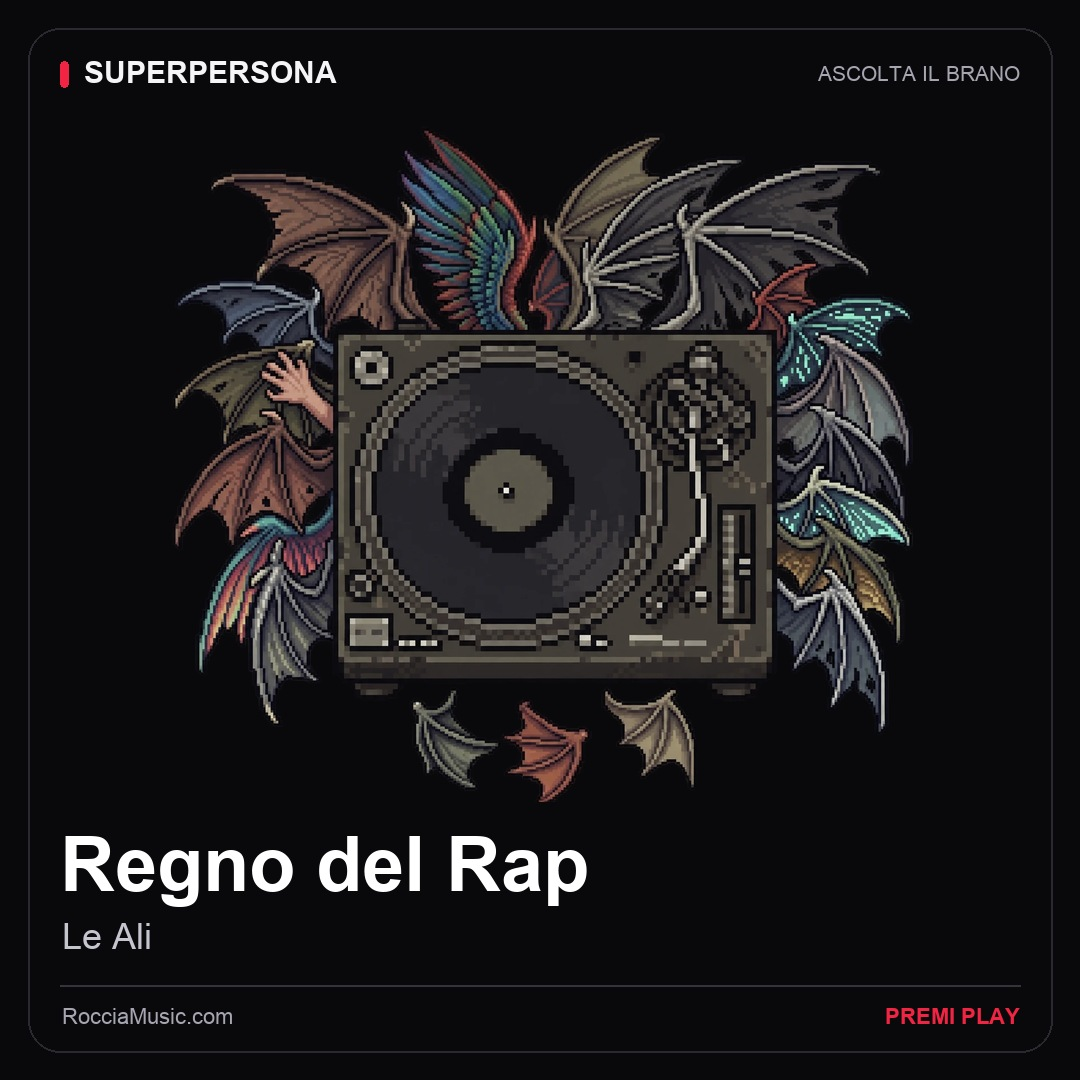
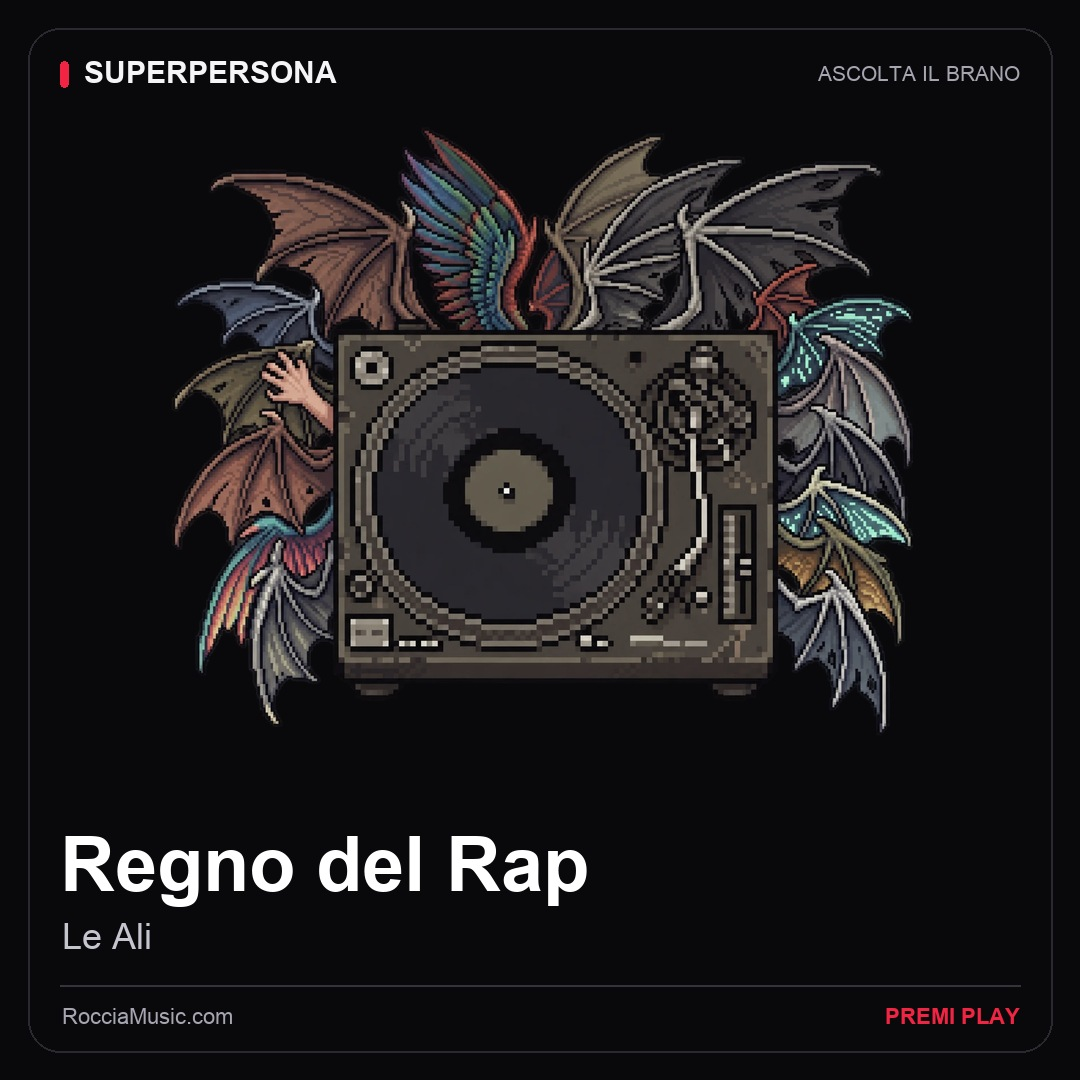
Add red cyber dragon, clean wings and optimize mobile motion

diff --git a/index.html b/index.html
@@ -19,8 +19,8 @@
     </style>
 
     <!-- CSS principali -->
-    <link rel="preload" href="css/style.css?v=1.5.0" as="style" />
-    <link rel="stylesheet" href="css/style.css?v=1.5.0" />
+    <link rel="preload" href="css/style.css?v=1.6.0" as="style" />
+    <link rel="stylesheet" href="css/style.css?v=1.6.0" />
     <link rel="stylesheet" href="css/animations.css?v=1.1.0" />
     <link rel="stylesheet" href="css/sharing.css?v=1.2.0" />
     <link rel="icon" type="image/webp" href="hades-2-icon.webp?v=1.0.2" />
@@ -208,7 +208,7 @@
             </div>
 
             <div class="giradischi-item is-unreleased" data-track-id="inedito-04" data-unreleased="true">
-              <div class="giradischi-vinyl-wrap"><img src="giradischi/inedito-04-v2.webp" srcset="giradischi/responsive/inedito-04-v2-320.webp 320w, giradischi/responsive/inedito-04-v2-640.webp 640w, giradischi/inedito-04-v2.webp 1315w" width="1315" height="1197" style="--art-scale:1.00499;--art-x:-0.8789%;--art-y:-0.0673%;" sizes="(max-width: 640px) 175px, 320px" alt="Giradischi Le scaglie" class="giradischi-img" loading="lazy" decoding="async" draggable="false" /></div>
+              <div class="giradischi-vinyl-wrap"><img src="giradischi/inedito-04-v3.webp" srcset="giradischi/responsive/inedito-04-v3-320.webp 320w, giradischi/responsive/inedito-04-v3-640.webp 640w, giradischi/inedito-04-v3.webp 1315w" width="1315" height="1197" style="--art-scale:1.01022;--art-x:-0.5762%;--art-y:-0.0531%;" sizes="(max-width: 640px) 175px, 320px" alt="Giradischi Le scaglie con drago rosso metallico" class="giradischi-img" loading="lazy" decoding="async" draggable="false" /></div>
               <span class="track-number">08</span>
               <h2 class="track-title"><span class="cipher-title" role="img" aria-label="Titolo non annunciato"><span data-scramble="title" aria-hidden="true">K7X2Q9</span></span> — Le scaglie</h2>
               <div class="track-player track-player-unreleased" aria-label="Player del brano inedito, non ancora disponibile">
@@ -431,7 +431,7 @@
 
             <div class="giradischi-item" data-track-id="regno-del-rap">
               <div class="giradischi-vinyl-wrap">
-                <img src="giradischi/regno-del-rap-v2.webp" srcset="giradischi/responsive/regno-del-rap-v2-320.webp 320w, giradischi/responsive/regno-del-rap-v2-640.webp 640w, giradischi/regno-del-rap-v2.webp 1315w" width="1315" height="1197" style="--art-scale:1.00110;--art-x:-1.9032%;--art-y:0.0267%;" alt="Giradischi Regno del Rap - Le Ali" sizes="(max-width: 640px) 175px, 320px" decoding="async" class="giradischi-img" draggable="false" loading="lazy" />
+                <img src="giradischi/regno-del-rap-v3.webp" srcset="giradischi/responsive/regno-del-rap-v3-320.webp 320w, giradischi/responsive/regno-del-rap-v3-640.webp 640w, giradischi/regno-del-rap-v3.webp 1315w" width="1315" height="1197" style="--art-scale:1.00110;--art-x:-1.9794%;--art-y:-0.0569%;" alt="Giradischi Regno del Rap - Le Ali" sizes="(max-width: 640px) 175px, 320px" decoding="async" class="giradischi-img" draggable="false" loading="lazy" />
               </div>
               <span class="track-number">20</span>
               <h2 class="track-title">Regno del Rap - Le Ali</h2>
@@ -556,9 +556,9 @@
     <script src="js/hero.js?v=1.1.0" defer></script>
     <!-- Anime.js CDN for timeline-based animations -->
     <script src="https://cdnjs.cloudflare.com/ajax/libs/animejs/3.2.1/anime.min.js" defer></script>
-    <script src="js/main.js?v=1.7.0" defer></script>
+    <script src="js/main.js?v=1.7.1" defer></script>
     <script src="js/sharing.js?v=1.4.0" defer></script>
-    <script src="js/unreleased.js?v=1.0.0" defer></script>
+    <script src="js/unreleased.js?v=1.1.0" defer></script>
   </body>
 </html>
 

diff --git a/js/main.js b/js/main.js
@@ -29,24 +29,34 @@
   let lastSyncSec = -1;
 
   const listeningBar = document.getElementById('listening-bar');
+  const listeningTitle = listeningBar?.querySelector('.listening-title');
+  const listeningEmoji = listeningBar?.querySelector('.listening-emoji');
+  const listeningAlbum = listeningBar?.querySelector('.listening-album');
+  const listeningToggle = listeningBar?.querySelector('.listening-toggle');
+  const listeningTime = listeningBar?.querySelector('.listening-time');
+  const listeningProgress = listeningBar?.querySelector('.listening-progress i');
   const visiblePlayers = new Set();
   const syncListeningBar = () => {
     if (!listeningBar) return;
-    const shown = currentTrack && !visiblePlayers.has(currentTrack.id);
-    listeningBar.hidden = !shown;
-    document.body.classList.toggle('has-listening-bar', Boolean(shown));
-    if (!currentTrack) return;
+    const shown = Boolean(currentTrack && !visiblePlayers.has(currentTrack.id));
+    if (listeningBar.hidden !== !shown) {
+      listeningBar.hidden = !shown;
+      document.body.classList.toggle('has-listening-bar', shown);
+      if (!shown) listeningBar.classList.remove('is-playing');
+    }
+    if (!shown) return;
     if (listeningBar.dataset.track !== currentTrack.id) {
       listeningBar.dataset.track = currentTrack.id;
-      listeningBar.querySelector('.listening-title').textContent = currentTrack.title;
-      listeningBar.querySelector('.listening-emoji').textContent = currentTrack.item.querySelector('.track-emoji')?.textContent || '♫';
-      listeningBar.querySelector('.listening-album').textContent = `${currentTrack.item.querySelector('.track-number')?.textContent || ''} / 24 · SUPERPERSONA`;
+      listeningTitle.textContent = currentTrack.title;
+      listeningEmoji.textContent = currentTrack.item.querySelector('.track-emoji')?.textContent || '♫';
+      listeningAlbum.textContent = `${currentTrack.item.querySelector('.track-number')?.textContent || ''} / 24 · SUPERPERSONA`;
     }
     const playing = wantsPlayback && !audio.paused;
     listeningBar.classList.toggle('is-playing', playing);
-    listeningBar.querySelector('.listening-toggle').setAttribute('aria-label', playing ? 'Pausa' : 'Riprendi');
-    listeningBar.querySelector('.listening-time').textContent = formatTime(currentTrack.position);
-    listeningBar.querySelector('.listening-progress i').style.width = `${currentTrack.duration ? Math.min(100, currentTrack.position / currentTrack.duration * 100) : 0}%`;
+    listeningToggle.setAttribute('aria-label', playing ? 'Pausa' : 'Riprendi');
+    const time = formatTime(currentTrack.position);
+    if (listeningTime.textContent !== time) listeningTime.textContent = time;
+    listeningProgress.style.width = `${currentTrack.duration ? Math.min(100, currentTrack.position / currentTrack.duration * 100) : 0}%`;
   };
 
   const renderProgress = (track) => {

diff --git a/brani/regno-del-rap/index.html b/brani/regno-del-rap/index.html
@@ -12,8 +12,8 @@
     <meta property="og:title" content="Regno del Rap - Le Ali" />
     <meta property="og:description" content="Ascolta Regno del Rap - Le Ali su RocciaMusic.com. Apri il brano e premi play." />
     <meta property="og:url" content="https://www.rocciamusic.com/brani/regno-del-rap/" />
-    <meta property="og:image" content="https://www.rocciamusic.com/assets/share/regno-del-rap.jpg?v=decfc79189d8" />
-    <meta property="og:image:secure_url" content="https://www.rocciamusic.com/assets/share/regno-del-rap.jpg?v=decfc79189d8" />
+    <meta property="og:image" content="https://www.rocciamusic.com/assets/share/regno-del-rap.jpg?v=01a4489320d7" />
+    <meta property="og:image:secure_url" content="https://www.rocciamusic.com/assets/share/regno-del-rap.jpg?v=01a4489320d7" />
     <meta property="og:image:type" content="image/jpeg" />
     <meta property="og:image:width" content="1080" />
     <meta property="og:image:height" content="1080" />
@@ -21,7 +21,7 @@
     <meta name="twitter:card" content="summary_large_image" />
     <meta name="twitter:title" content="Regno del Rap - Le Ali" />
     <meta name="twitter:description" content="Ascolta Regno del Rap - Le Ali su RocciaMusic.com. Apri il brano e premi play." />
-    <meta name="twitter:image" content="https://www.rocciamusic.com/assets/share/regno-del-rap.jpg?v=decfc79189d8" />
+    <meta name="twitter:image" content="https://www.rocciamusic.com/assets/share/regno-del-rap.jpg?v=01a4489320d7" />
     <meta name="theme-color" content="#09090c" />
     <style>
       :root { color-scheme: dark; }
@@ -34,7 +34,7 @@
   </head>
   <body>
     <main>
-      <img src="../../assets/share/regno-del-rap.jpg?v=decfc79189d8" alt="Copertina di Regno del Rap - Le Ali" width="1080" height="1080" />
+      <img src="../../assets/share/regno-del-rap.jpg?v=01a4489320d7" alt="Copertina di Regno del Rap - Le Ali" width="1080" height="1080" />
       <h1>Regno del Rap - Le Ali</h1>
       <a href="../../?track=regno-del-rap">Ascolta su RocciaMusic.com</a>
     </main>

diff --git a/js/unreleased.js b/js/unreleased.js
@@ -4,7 +4,10 @@
   const reducedMotion = window.matchMedia('(prefers-reduced-motion: reduce)');
   const alphabet = 'ABCDEFGHKLMNPQRSTVXYZ0123456789';
   const visible = new Set();
+  const mobile = window.matchMedia('(pointer: coarse), (max-width: 640px)').matches;
   let timer;
+  let scrollTimer;
+  let scrolling = false;
   const randomChar = () => alphabet[Math.floor(Math.random() * alphabet.length)];
   const states = cards.map((card) => ({
     card,
@@ -14,7 +17,7 @@
   }));
   const animate = () => {
     timer = null;
-    if (document.hidden || reducedMotion.matches || !visible.size) return;
+    if (document.hidden || reducedMotion.matches || scrolling || !visible.size) return;
     states.forEach((state) => {
       if (!visible.has(state.card)) return;
       if (state.title) {
@@ -25,7 +28,7 @@
       }
       if (state.time) state.time.textContent = `${Math.floor(Math.random() * 10)}:${String(Math.floor(Math.random() * 60)).padStart(2, '0')}`;
     });
-    timer = setTimeout(animate, 180);
+    timer = setTimeout(animate, mobile ? 240 : 180);
   };
   const sync = () => {
     clearTimeout(timer);
@@ -46,10 +49,17 @@
         else visible.delete(target);
       });
       sync();
-    }, { rootMargin: '60px' });
+    });
     cards.forEach((card) => observer.observe(card));
   } else cards.forEach((card) => visible.add(card));
   document.addEventListener('visibilitychange', sync);
+  if (mobile) window.addEventListener('scroll', () => {
+    // Leave the main thread to touch/momentum scrolling; resume once it settles.
+    scrolling = true;
+    clearTimeout(timer);
+    clearTimeout(scrollTimer);
+    scrollTimer = setTimeout(() => { scrolling = false; sync(); }, 180);
+  }, { passive: true });
   reducedMotion.addEventListener('change', sync);
   sync();
 })();

diff --git a/css/style.css b/css/style.css
@@ -123,6 +123,7 @@ a{color:inherit}
   }
 }
 .giradischi-item {
+  contain: layout style;
   display: flex;
   flex-direction: column;
   align-items: center;

diff --git a/docs/superpersona-unreleased.md b/docs/superpersona-unreleased.md
@@ -2,10 +2,14 @@
 
 La griglia contiene 24 giradischi nell'ordine dell'album. I 12 elementi con `data-unreleased` hanno un player visivo con emoji e pulsante disabilitato, senza sorgente audio. `main.js` e `sharing.js` li escludono dalla sequenza e dalle azioni di condivisione. Titoli confermati e parti anatomiche rimangono leggibili; i dieci titoli non annunciati mostrano sei caratteri variabili. Le durate degli inediti sono sequenze illustrative, indicate come non annunciate per le tecnologie assistive.
 
-`js/unreleased.js` aggiorna solo i giradischi visibili, ogni 180 ms, e si ferma quando la pagina è nascosta. Con movimento ridotto usa punti interrogativi e una durata non specificata. I valori animati non vengono comunicati come aggiornamenti ai lettori di schermo e non entrano nei metadati audio.
+`js/unreleased.js` aggiorna solo i giradischi visibili, ogni 180 ms su desktop e 240 ms su telefono, e si ferma quando la pagina è nascosta. Sul telefono gli aggiornamenti si sospendono anche durante lo scorrimento e riprendono 180 ms dopo l’ultimo movimento. Il contenimento del layout isola ogni giradischi senza tagliare le estensioni. Con movimento ridotto usa punti interrogativi e una durata non specificata. I valori animati non vengono comunicati come aggiornamenti ai lettori di schermo e non entrano nei metadati audio.
 
 La barra d'ascolto compatta compare quando il player del brano selezionato esce dalla vista. Pausa, ripresa e avanti/indietro chiamano gli stessi comandi del player principale; il titolo riporta al giradischi. Rimane un solo elemento audio persistente. La barra non seleziona né carica brani all'apertura della pagina.
 
 La revisione grafica mantiene tipografia bianca e rimuove il riepilogo numerico sotto il titolo dell'album. Le cinque copertine riviste hanno file WebP nuovi e formati da 320 e 640 pixel; le versioni precedenti sono conservate. Per Le ali sono aggiornate anche l'immagine di condivisione con intestazione SUPERPERSONA e la copertina dello schermo bloccato.
 
 Verifiche: `scripts/test_sharing.mjs` copre animazione dei titoli, movimento ridotto, pulsanti inediti disabilitati, colore dei titoli, barra compatta, riproduzione sequenziale, condivisione e collegamenti ai 12 brani. `scripts/test_webkit.mjs` verifica riproduzione reale e controlli nel motore Safari con profilo iPhone. Il controllo del layout comprende 24 immagini, 24 barre, schermi da 320/390/1440 pixel e allineamento delle barre nella prima riga.
+
+Ottimizzazione successiva: la barra nascosta non aggiorna titolo, durata e progressione; i riferimenti ai suoi elementi sono memorizzati. I test controllano anche l’assenza di aggiornamenti dei caratteri durante lo scorrimento, fuori schermo e con pagina nascosta. `scripts/test_performance.mjs` controlla la sospensione del video fuori vista, l’assenza di allocazioni duplicate al ridimensionamento e zero byte MP3 prima della selezione.
+
+Revisione delle copertine 03: Le scaglie mostra un drago rosso metallico dietro lo strumento; Le ali conserva le grandi ali superiori e laterali lasciando vuota la zona sotto la macchina. Radici tecnologiche, tentacoli neri e sigillo alchemico restano nella versione precedente approvata.
